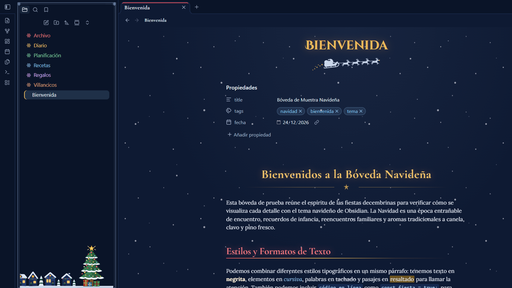
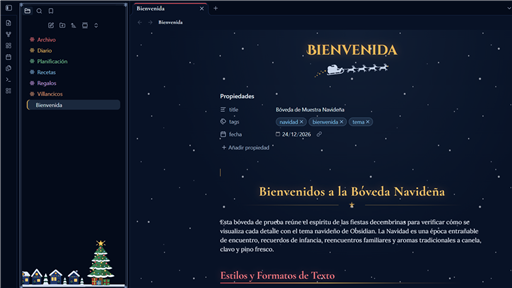
Snowy Eve 1.6.0: version, README and fresh screenshots

diff --git a/README.md b/README.md
@@ -1,34 +1,34 @@
 # Snowy Eve ❄
 
-A cozy Christmas theme for [Obsidian](https://obsidian.md): Christmas Eve by night — a midnight blue sky with faint stars, golden lights and red baubles — and Christmas Day by morning — a warm cabin morning of ivory paper and candle-lit cream, with fairy lights twinkling over coloured houses. Classic serif typography with decorative Christmas-card capitals for the note title, festive headings, Santa's sleigh under every note title, a lit Christmas tree over a decorated village, snowflake folder toggles, gently falling snow by night and twinkling lights by day.
+A cozy Christmas theme for [Obsidian](https://obsidian.md): Christmas Eve by night — a midnight blue sky with faint stars, golden lights and red baubles — and Christmas Day by morning — a warm cabin morning of ivory paper and candle-lit cream, with a pine garland hung over coloured houses. Classic serif typography with decorative Christmas-card capitals for the note title, festive headings, Santa's sleigh under every note title, a lit Christmas tree over a decorated village, snowflake folder toggles, gently falling snow by night and a garland with swaying baubles by day.
 
-![Snowy Eve — Christmas Eve (dark mode)](docs/dark.png)
+![Snowy Eve — Christmas Eve (dark mode)](docs/dark-1.6.png)
 
-![Snowy Eve — Christmas Day (light mode)](docs/light.png)
+![Snowy Eve — Christmas Day (light mode)](docs/light-1.6.png)
 
-The new tab: Santa's sleigh over the decorated village, with a lit tree in the file explorer — snow by night, twinkling lights by day.
+The new tab: Santa's sleigh over the decorated village, with a lit tree in the file explorer — snow by night, a pine garland by day.
 
-![Snowy Eve — new tab, dark mode](docs/new-tab-dark.png)
+![Snowy Eve — new tab, dark mode](docs/new-tab-dark-1.6.png)
 
-![Snowy Eve — new tab, light mode](docs/new-tab-light.png)
+![Snowy Eve — new tab, light mode](docs/new-tab-light-1.6.png)
 
-The graph view: Christmas baubles connected by golden garlands over a quiet sky — a warm glow by night, soft shadows by day.
+The graph view: golden baubles on golden garlands with a warm glow by night, pine green and holly red on ivory paper by day.
 
-![Snowy Eve — graph view, dark mode](docs/graph-dark.png)
+![Snowy Eve — graph view, dark mode](docs/graph-dark-1.6.png)
 
-![Snowy Eve — graph view, light mode](docs/graph-light.png)
+![Snowy Eve — graph view, light mode](docs/graph-light-1.6.png)
 
 ## Features
 
-- **Dark and light modes** — *Christmas Eve* (midnight blue sky with faint stars behind notes, snow-white text, golden lights, red baubles) and *Christmas Day* (a warm cabin morning: ivory paper, candle-lit cream, the golden glow of the village windows, espresso text, red, pine green and gold). Text contrast meets WCAG AA in both, headings included.
+- **Dark and light modes** — *Christmas Eve* (a deep midnight blue sky with faint stars behind notes, snow-white text, golden lights, red baubles) and *Christmas Day* (a warm cabin morning: ivory paper, candle-lit cream, the golden glow of the village windows, espresso text, red, pine green and gold). Text contrast meets WCAG AA in both, headings included.
 - **Typography** — Lora for reading, bold Cormorant Garamond for headings, and the decorative Christmas-card capitals of Cinzel Decorative for the note title (easy to read even in all caps), all embedded (no network requests). Option to use Cormorant Garamond for note titles as well.
 - **Festive headings** — each level has its own Christmas colour: gold, coral red, holly green, ice blue, frost silver and copper by night (with a soft glow on H1–H3); red, pine green, gold, house blue, plum and copper by day. H2 carries a red-to-gold ribbon. Bold, italics, highlights and inline code are tinted to match.
 - **Ornaments** — Santa and his reindeer sleigh under each note title (or a golden star), a gold rule with a star under H1 and on dividers, red baubles (golden in sublists) as bullets, a bauble on H3, and checked tasks with a golden star over a red bauble.
 - **File explorer** — larger names and icons, and each top-level folder gets its own Christmas colour in order (red, gold, green, ice blue, plum, copper), shared by its subfolders. A snowflake replaces the folder arrow (rotates when opened), and a lit Christmas tree with presents stands over a village decorated with strings of lights, wreaths and a snowman (night houses with glowing windows; coloured houses with snowy roofs by day).
-- **Falling snow by night, twinkling lights by day** over your notes and the new tab. By day, small gold, red, green and blue fairy lights blink in three groups out of step, like the lights on a tree, and fade to a third behind the text column so they never get in the way of reading. Neither ever catches clicks, and both hide themselves when your system asks to reduce motion.
+- **Falling snow by night, a pine garland by day** over your notes and the new tab. By day, a garland with red bows, holly and gently swaying baubles hangs from the top in its own strip, so your title and text scroll below it and never behind it. Neither ever catches clicks, and both hide themselves when your system asks to reduce motion.
 - **Frost frames** — a thin double line with snowflake corners around sidebar panels and dialogs.
-- **New tab** with Santa's sleigh crossing the sky over the decorated village, with falling snow by night and twinkling lights by day.
-- **Graph view** — notes become golden Christmas baubles, like the lights on the tree (tags and attachments in coral red and holly green by night, red and pine green by day), hung on golden garland lines, with a soft halo around them (a golden glow by night, a gentle shadow over ivory paper by day). Hovering a node lights it and its connections up (light gold by night, red by day). Behind it there is only a calm sky (a still field of stars by night, the warm morning glow by day), with no village and nothing animated, so the graph stays smooth. In the global and the local graph.
+- **New tab** with Santa's sleigh crossing the sky over the decorated village, with falling snow by night and the pine garland by day.
+- **Graph view** — by night, notes become golden baubles, like the lights on the tree (tags in coral red, attachments in holly green), hung on golden garland lines with a soft glow. By day, a complementary palette for ivory paper: pine green notes, holly red tags, gold attachments and fine pine lines, with a barely visible shadow. Hovering a node lights it and its connections up (light gold by night, red by day). Behind it there is only a calm sky (a still field of stars by night, the warm morning glow by day), with no village and nothing animated, so the graph stays smooth. In the global and the local graph.
 - **Dates in note titles and headings** use lining figures, so the digits of a date like `24∕10∕26` line up.
 
 ## Settings
@@ -37,8 +37,8 @@ Install the [Style Settings](https://github.com/mgmeyers/obsidian-style-settings
 
 | Option | Default |
 |---|---|
-| Disable falling snow and twinkling lights | Off |
-| Snow and lights intensity | 0.6 |
+| Disable falling snow and the garland | Off |
+| Snow and garland intensity | 0.6 |
 | Disable the sky behind notes (stars by night, morning glow by day) | Off |
 | Disable the decorated village under the file explorer | Off |
 | Disable the Christmas tree in the file explorer | Off |
@@ -77,7 +77,7 @@ node tools/contraste.mjs  # checks the palette contrast
 
 ## Español
 
-Tema navideño para Obsidian: de noche, la espera de Nochebuena (cielo azul medianoche con estrellas, luces doradas y esferas rojas); de día, la mañana de Navidad en una cabaña cálida (papel marfil, crema a la luz de las velas y casas de colores). Título en mayúsculas de tarjeta navideña (Cinzel Decorative), encabezados con un color navideño por nivel, trineo de Santa bajo el título de cada nota, un árbol iluminado sobre un pueblo adornado con luces, copos de nieve en las carpetas, nieve que cae suavemente de noche y luces que titilan intercaladas de día. Las opciones se configuran con el plugin Style Settings.
+Tema navideño para Obsidian: de noche, la espera de Nochebuena (cielo azul medianoche con estrellas, luces doradas y esferas rojas); de día, la mañana de Navidad en una cabaña cálida (papel marfil, crema a la luz de las velas y casas de colores). Título en mayúsculas de tarjeta navideña (Cinzel Decorative), encabezados con un color navideño por nivel, trineo de Santa bajo el título de cada nota, un árbol iluminado sobre un pueblo adornado con luces, copos de nieve en las carpetas, nieve que cae suavemente de noche y, de día, una guirnalda de pino con esferas que se balancean. Las opciones se configuran con el plugin Style Settings.
 
 ## Credits
 
